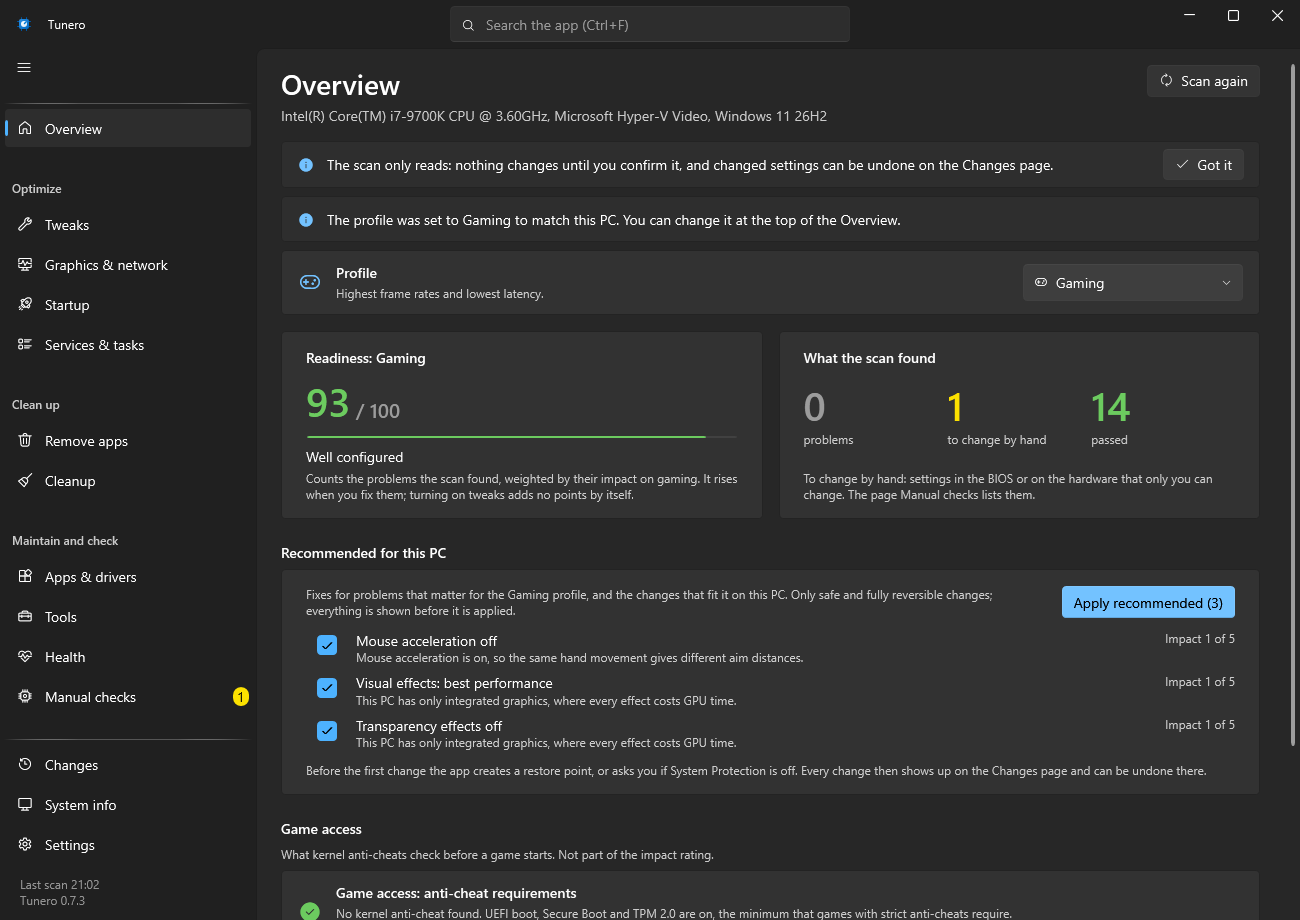
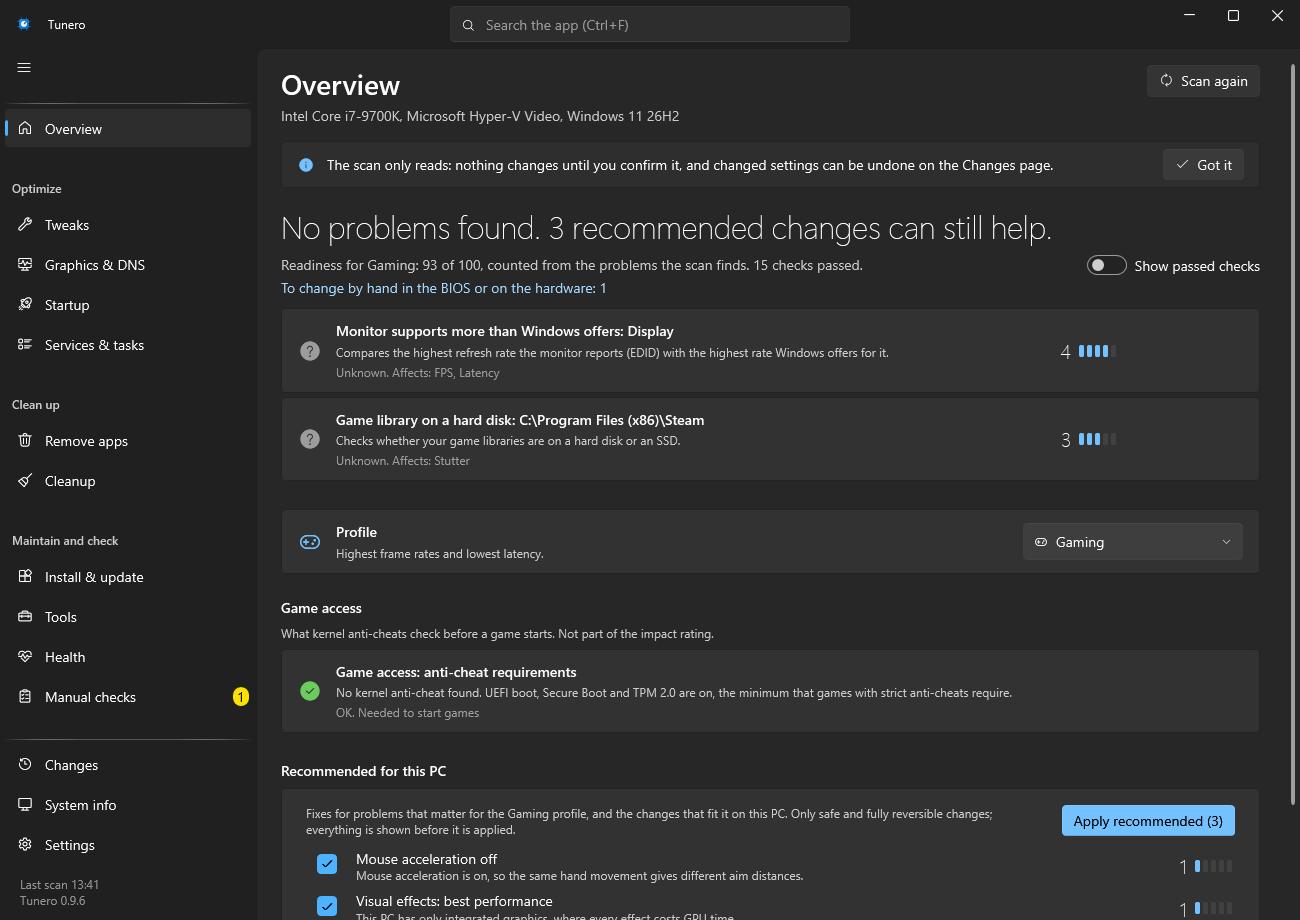
README and website: screenshots of the current UI, rendered in the VM
The README showed 0.7.3 (old page names, the score cards); its Overview, Tweaks, System info and search screenshots
are rendered again elevated in the test VM, with alt texts for the verdict and the rating marks. The website's
Overview screenshots follow the new line under the verdict, and og.png the new Overview.

diff --git a/README.md b/README.md
@@ -52,9 +52,9 @@ A copy installed this way is updated by its package manager: "Update now" in the
 
 The app uses settings that Microsoft or the hardware vendor documents. A few harmless, fully reversible tweaks use a value Microsoft does not document (the value behind a Windows Settings switch, or a widely used one such as the classic right-click menu): they carry an "Undocumented value" badge, their explanation page says so, and they stay previews until a test has shown that the value works. It never recommends turning off security features that anti-cheats require, and keeps changes that turn off security features or touch the boot configuration in Expert mode.
 
-<p align="center"><img src="docs/screenshots/overview-en-dark.png" width="800" alt="Overview page: readiness score, what the scan found and the recommended changes as a checklist"></p>
+<p align="center"><img src="docs/screenshots/overview-en-dark.png" width="800" alt="Overview page: the verdict of the scan, the findings with their impact rating, and the recommended changes as a checklist"></p>
 
-<p align="center"><img src="docs/screenshots/tweaks-en-light.png" width="800" alt="Tweaks page: the Show and Profile filters, groups with Turn on, and the explanation of the selected tweak"></p>
+<p align="center"><img src="docs/screenshots/tweaks-en-light.png" width="800" alt="Tweaks page: the Show filter, groups with Turn on, rows with their impact rating, and the explanation of the selected tweak"></p>
 
 <p align="center"><img src="docs/screenshots/system-info-en-dark.png" width="800" alt="System info page: summary tiles and one card per area"></p>
 
@@ -66,7 +66,7 @@ The app uses settings that Microsoft or the hardware vendor documents. A few har
 - **It looks at your PC first.** It recommends only what fits this PC and your profile, and keeps risky changes behind Expert mode.
 - **Nothing runs in the background.** No service, no tray icon, no telemetry. Windows applies the settings itself; the app runs only when you start it.
 
-<p align="center"><img src="docs/screenshots/search-en-light.png" width="800" alt="Search for defender: the reason why turning off Defender is not offered comes first, then the Defender drivers and services"></p>
+<p align="center"><img src="docs/screenshots/search-en-light.png" width="800" alt="Search for defender: the reason why turning off Defender is not offered comes first, then what the app offers for Defender"></p>
 
 ## Command line
 
